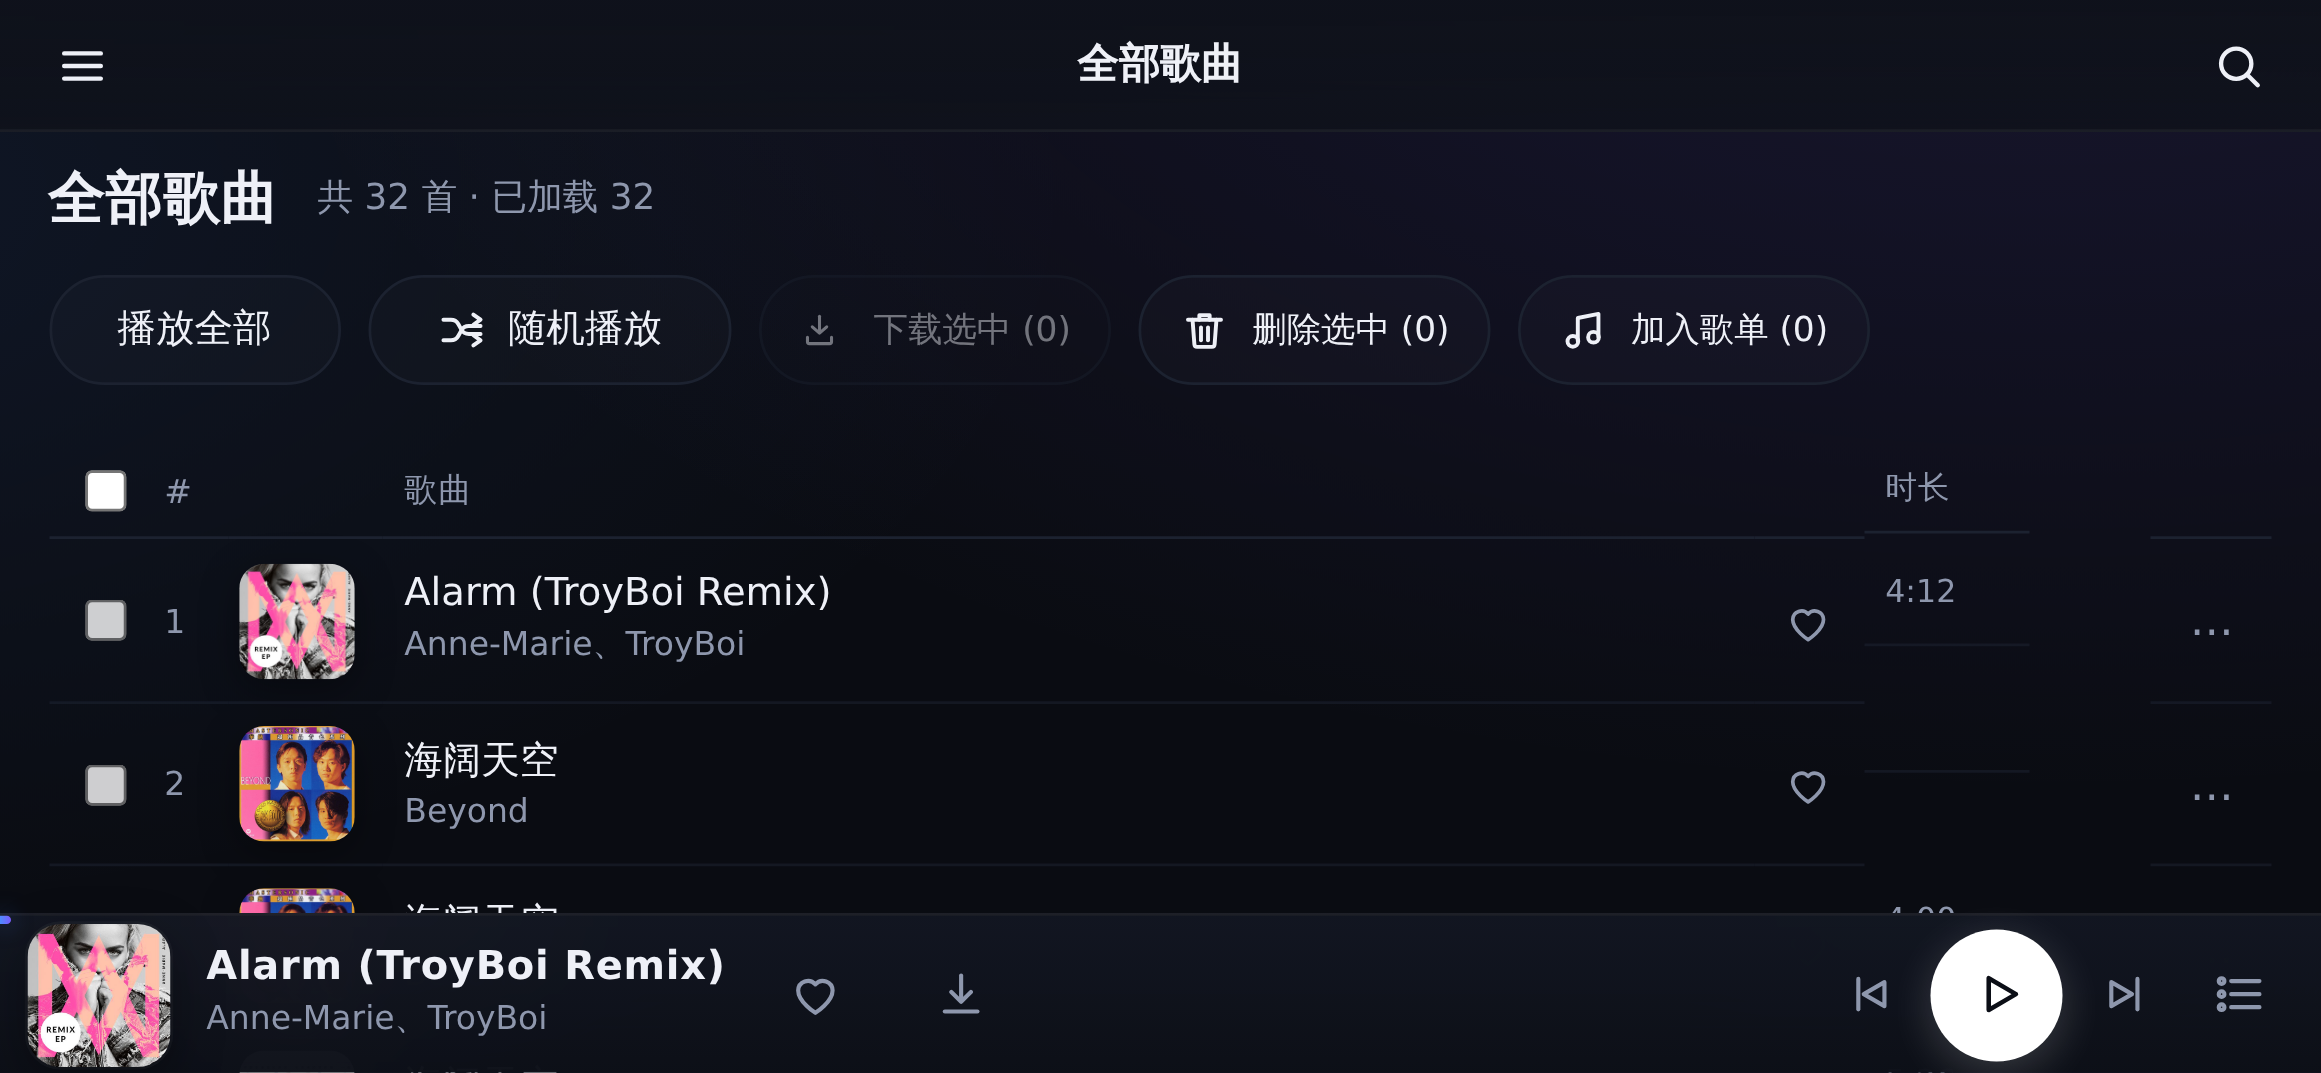
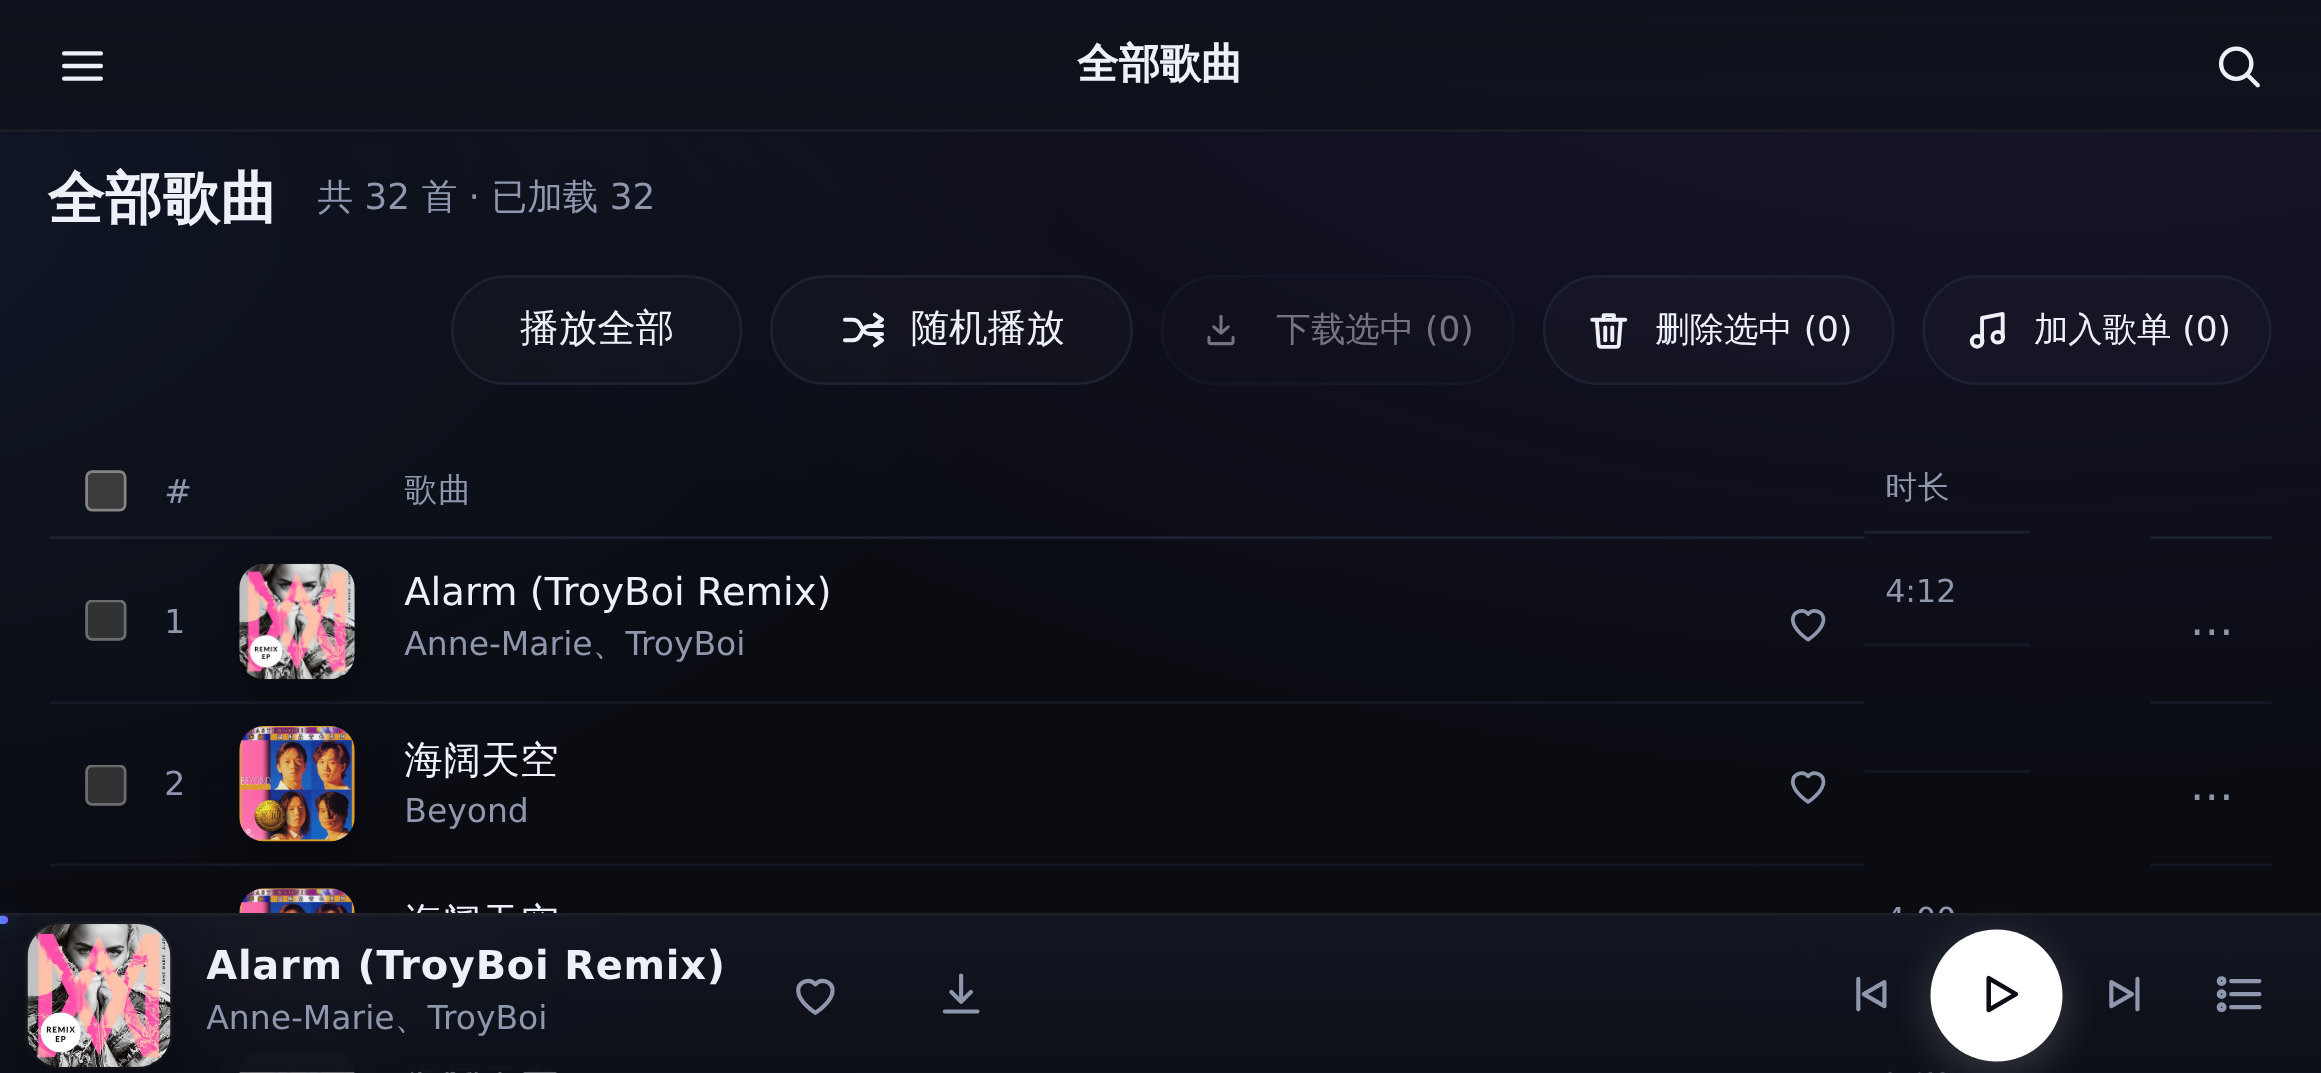
fix(ui): 深色原生控件 + 手机端批量操作收成单行横滑 + 触控目标补足
在 dd5b862 基础上按截图复核结果做第二轮精修：

- :root 加 color-scheme:dark —— 深色界面里未勾选的复选框原本是浅色系统方块，
  很跳；滑杆等原生控件一并跟随深色
- 手机端批量操作按钮从「右对齐参差换行」（≤560px 会占三行、约 150px 高度）
  改为单行横滑，与在线源 chips / Tab 同一套手势；实测 390px 下滑动区 642px
  可滚到底。注意横滑容器不能配 flex-end 对齐：溢出到左侧的按钮 Chrome
  不计入 scrollWidth，会变成滚不到的按钮
- 触控目标补足：抽屉「＋新建歌单」实测仅 24px → 38px；侧栏底部按钮 34 → 38px；
  手机端复选框 15 → 18px
- E2E 增补 5 条断言：抽屉内触控目标、关闭时完全离屏、歌名区宽度等

验证：tools/e2e-responsive.py 96 通过 / 0 失败（9 视口 × 7 页面）；计算值实测
color-scheme=dark、text-size-adjust=100%、overscroll-behavior-y=none、
touch-action=manipulation、user-select=none，触摸仿真下 (hover:none) 与
(pointer:coarse) 均命中且 5 条按压态规则生效。

diff --git a/ui/app/assets/app.css b/ui/app/assets/app.css
@@ -908,6 +908,8 @@ img.ph {
 }
 
 /* —— 2. 平台级修正 —— */
+/* 原生控件跟随深色：复选框/滑杆不再呈现浅色系统样式 */
+:root { color-scheme: dark; }
 /* 禁掉 iOS/安卓横竖屏切换时的字号自动放大 */
 html { -webkit-text-size-adjust: 100%; text-size-adjust: 100%; }
 /* 用 dvh 而非 % 计算高度：移动端浏览器工具栏收放时底栏不再被裁切 */
@@ -975,11 +977,16 @@ button, .icon-btn, .chip, .btn, .otab { -webkit-user-select: none; user-select: 
   .menu { max-width: calc(100vw - 20px); }
   /* 操作按钮组窄屏换行：6 个按钮并排会把内容撑出屏幕（实测 390px 溢出 92px） */
   .page-head .btns { flex-wrap: wrap; row-gap: 8px; justify-content: flex-end; max-width: 100%; }
+  /* ≤560px 改成整齐两列，避免右对齐换行造成的阶梯状留白 */
+  .page-head .btns { width: 100%; }
   /* 源/Tab 横滑容器：不换行、不显示滚动条 */
   .otabs { flex-wrap: nowrap; overflow-x: auto; -webkit-overflow-scrolling: touch; scrollbar-width: none; }
   .otabs::-webkit-scrollbar { display: none; }
   .otab { flex-shrink: 0; }
   .nav a { padding: 12px 13px; }
+  /* 抽屉内小按钮补足触控尺寸（实测「＋新建歌单」只有 24px）*/
+  #pl-create { width: 38px; height: 38px; }
+  .side-links a, .side-links button { min-width: 38px; min-height: 38px; }
   .queue { max-height: 56vh; max-height: 56dvh; }
   /* 底栏质感 */
   .player { background: linear-gradient(180deg, rgba(19,23,34,.94), rgba(13,16,24,.97));
@@ -1001,6 +1008,17 @@ button, .icon-btn, .chip, .btn, .otab { -webkit-user-select: none; user-select: 
   .login-card { padding: 30px 20px 24px; }
   .dialog-box { padding: 20px 16px; }
   .trash-tbl .t-size { display: none; }
+}
+
+/* —— 7.4 手机端操作按钮：等宽两列网格 + 触屏复选框放大 —— */
+@media (max-width: 560px) {
+  /* 批量操作收成单行横滑（与在线源 chips / Tab 同一套手势），不再占三行高度 */
+  /* 注意：横滑容器不能用 flex-end 对齐——溢出到左侧的按钮会滚不到（Chrome 不计入 scrollWidth） */
+  .page-head .btns { width: 100%; flex-wrap: nowrap; justify-content: flex-start; overflow-x: auto;
+    -webkit-overflow-scrolling: touch; scrollbar-width: none; padding-bottom: 2px; }
+  .page-head .btns::-webkit-scrollbar { display: none; }
+  .page-head .btns .btn { flex: 0 0 auto; padding: 9px 16px; min-height: var(--tap); }
+  input[type=checkbox] { width: 18px; height: 18px; }
 }
 
 /* —— 7.5 超窄屏底栏：收藏/下载移入播放页（#lyric-full 各有一个），歌名不再被挤成一两个字 —— */

diff --git a/tools/e2e-responsive.py b/tools/e2e-responsive.py
@@ -60,6 +60,9 @@ METRICS = """() => {
       d.style.cssText = 'position:absolute;left:-9999px;top:0;width:var(--grid-min)'
       document.body.appendChild(d); const w = Math.round(d.getBoundingClientRect().width); d.remove(); return w })(),
     sidebarRight: Math.round(document.getElementById('sidebar').getBoundingClientRect().right),
+    sideMinTap: (() => { const rs = [...document.querySelectorAll('#sidebar a, #sidebar button')]
+        .map(e => e.getBoundingClientRect()).filter(r => r.height > 0).map(r => Math.round(Math.min(r.width, r.height)))
+      return rs.length ? Math.min(...rs) : 0 })(),
     viewMax: Math.round(parseFloat(getComputedStyle(view).maxWidth)) || null,
     playerVisible: ps.display !== 'none' && pr.height > 0,
     playerH: Math.round(pr.height),
@@ -146,6 +149,7 @@ def main():
             check('%s 顶栏/底栏触控目标 ≥34px' % label, m['minTap'] >= 34, 'min=%s' % m['minTap'])
             check('%s 抽屉关闭时完全离屏（不挡汉堡键）' % label, m['sidebarRight'] <= 1,
                   'sidebarRight=%s' % m['sidebarRight'])
+            check('%s 抽屉内触控目标 ≥36px' % label, m['sideMinTap'] >= 36, 'min=%s' % m['sideMinTap'])
             check('%s shell 高度铺满视口（dvh）' % label, abs(m['shellH'] - m['vh']) <= 2,
                   'shell=%s vh=%s' % (m['shellH'], m['vh']))
             if w <= 360:
